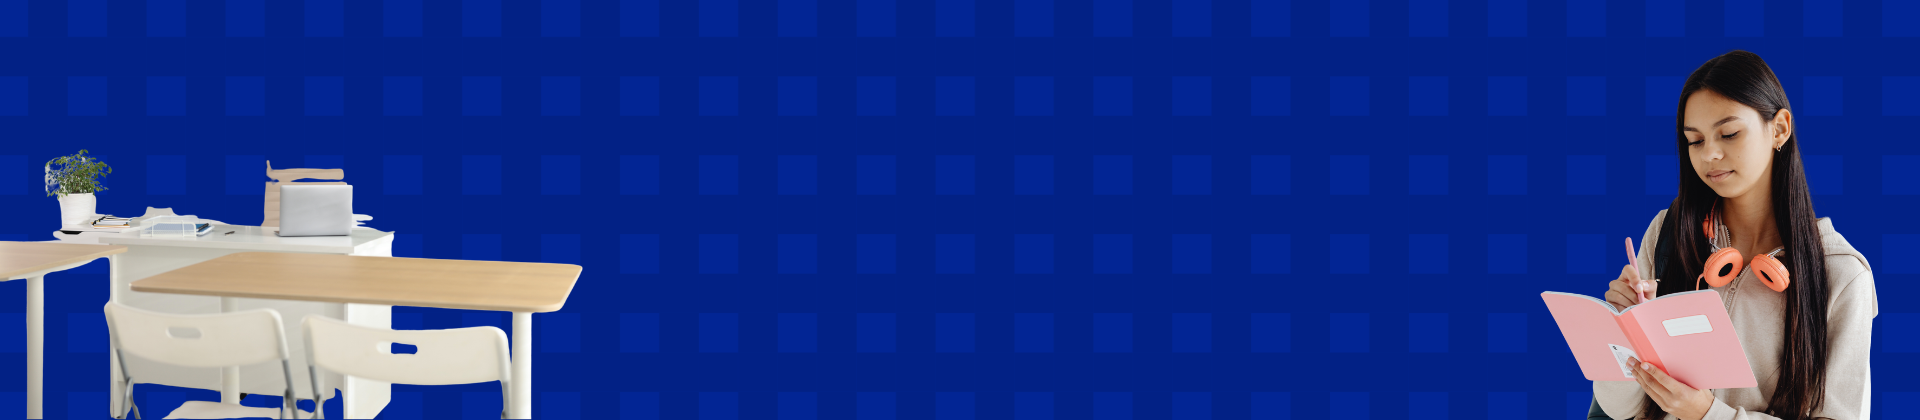
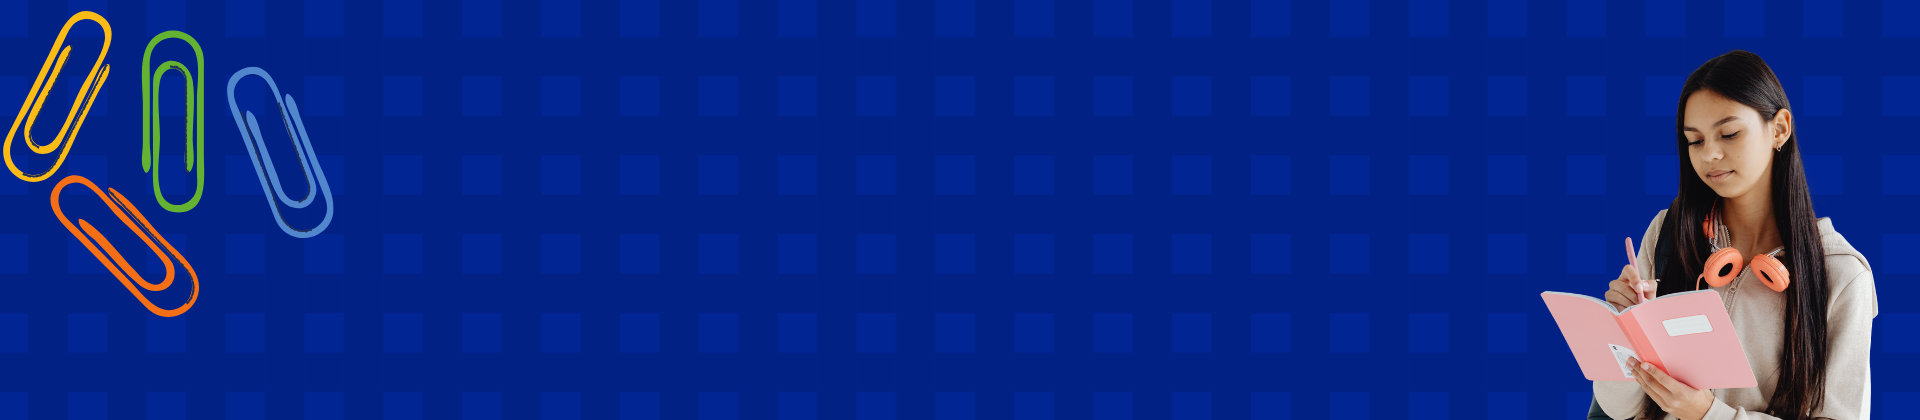
feat: replace slider images with homepage1.png and homepage2.png

Changed region(s): [[0.0, 0.031, 0.3125, 1.0]]

diff --git a/edumate/index.html b/edumate/index.html
@@ -97,7 +97,7 @@
     <!--====== Slider Start ======-->
 
     <section class="slider-area slider-03 slider-active">
-        <div class="single-slider d-flex align-items-center bg_cover" style="background-image: url(assets/images/slider-3-1.webp);">
+        <div class="single-slider d-flex align-items-center bg_cover" style="background-image: url(assets/images/homepage1.png);">
             <div class="container">
                 <div class="slider-content slider-content-3 text-center">
                     <h2 class="title" data-animation="fadeInUp" data-delay="0.2s">Education is the power of Humanity</h2>
@@ -109,7 +109,7 @@
             </div>
         </div>
 
-        <div class="single-slider d-flex align-items-center bg_cover" style="background-image: url(assets/images/slider-3-2.webp);">
+        <div class="single-slider d-flex align-items-center bg_cover" style="background-image: url(assets/images/homepage2.png);">
             <div class="container">
                 <div class="slider-content slider-content-3 text-center">
                     <h2 class="title" data-animation="fadeInUp" data-delay="0.2s">Education is the power of Humanity</h2>
